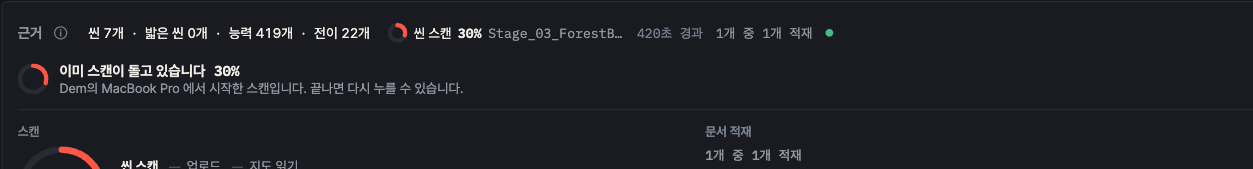
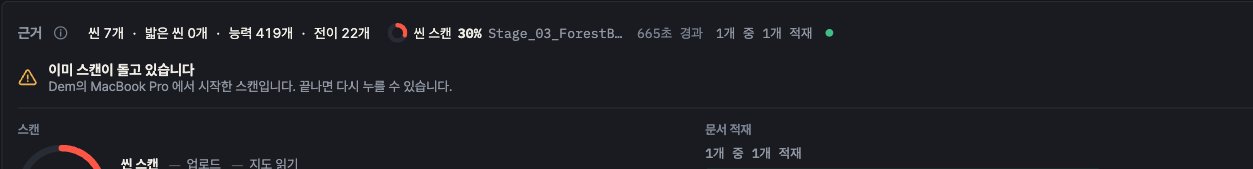
fix(content-map): 이미 돌고 있음 안내는 도넛 대신 경고 아이콘
진행은 바로 위 근거 줄과 펼침이 이미 보인다. 안내에는 서비스의 alert 아이콘과 두 줄만 둔다.

ARTEL-1179

diff --git a/src/contentMap/EvidenceScanPanel.tsx b/src/contentMap/EvidenceScanPanel.tsx
@@ -28,6 +28,7 @@ import { testCaseLibraryPath, type GenerationBlock } from './contentMapTestCases
 import { generateContentMapTestCases } from './generateContentMapTestCases'
 import { requestEvidenceScan } from './requestEvidenceScan'
 import { scanPercent } from './scanProgress'
+import { StudioIcon } from '../testScenarios/studioIcons'
 
 /**
  * 근거를 다시 모으게 시키는 자리.
@@ -479,22 +480,17 @@ function ScanProgressDetail({ scan }: { scan: LastScan }) {
 }
 
 /**
- * 409 `scan_in_progress` 안내(ARTEL-1179). 경고가 아니라 알림이라 앰버 판을 쓰지 않고, 아이콘 자리에 그 스캔의 도넛을
- * 둔다. 단계를 모르는 옛 서버면 도는 호가 대신한다.
+ * 409 `scan_in_progress` 안내(ARTEL-1179). 진행은 바로 옆 근거 줄과 펼침이 이미 보이므로 여기는 경고 아이콘과 두 줄뿐이다.
  */
 function AlreadyRunning({ scan }: { scan: LastScan }) {
   const { t } = useI18n()
   const copy = t.contentMap.scan
-  const percent = scanPercent(scan)
 
   return (
     <div className="cm-already-running" role="status">
-      <ProgressRing label={copy.alreadyRunningTitle} percent={percent} size={28} />
+      <StudioIcon className="cm-already-running-icon" name="alert" size={18} />
       <div>
-        <p className="cm-already-running-title">
-          {copy.alreadyRunningTitle}
-          {percent !== null && <span className="mono"> {percent}%</span>}
-        </p>
+        <p className="cm-already-running-title">{copy.alreadyRunningTitle}</p>
         <p className="cm-already-running-detail">{copy.alreadyRunningDetail(scan.gameInstanceName)}</p>
       </div>
     </div>

diff --git a/src/contentMap/contentMap.css b/src/contentMap/contentMap.css
@@ -1200,7 +1200,7 @@
   white-space: nowrap;
 }
 
-/* 이미 돌고 있음(ARTEL-1179): 판 없이 도넛 하나와 두 줄 */
+/* 이미 돌고 있음(ARTEL-1179): 판 없이 경고 아이콘 하나와 두 줄 */
 .cm-already-running {
   display: flex;
   align-items: center;
@@ -1218,4 +1218,8 @@
 .cm-already-running-detail {
   color: var(--color-text-secondary);
   font-size: 12px;
+}
+.cm-already-running-icon {
+  flex: none;
+  color: var(--color-status-warning);
 }
